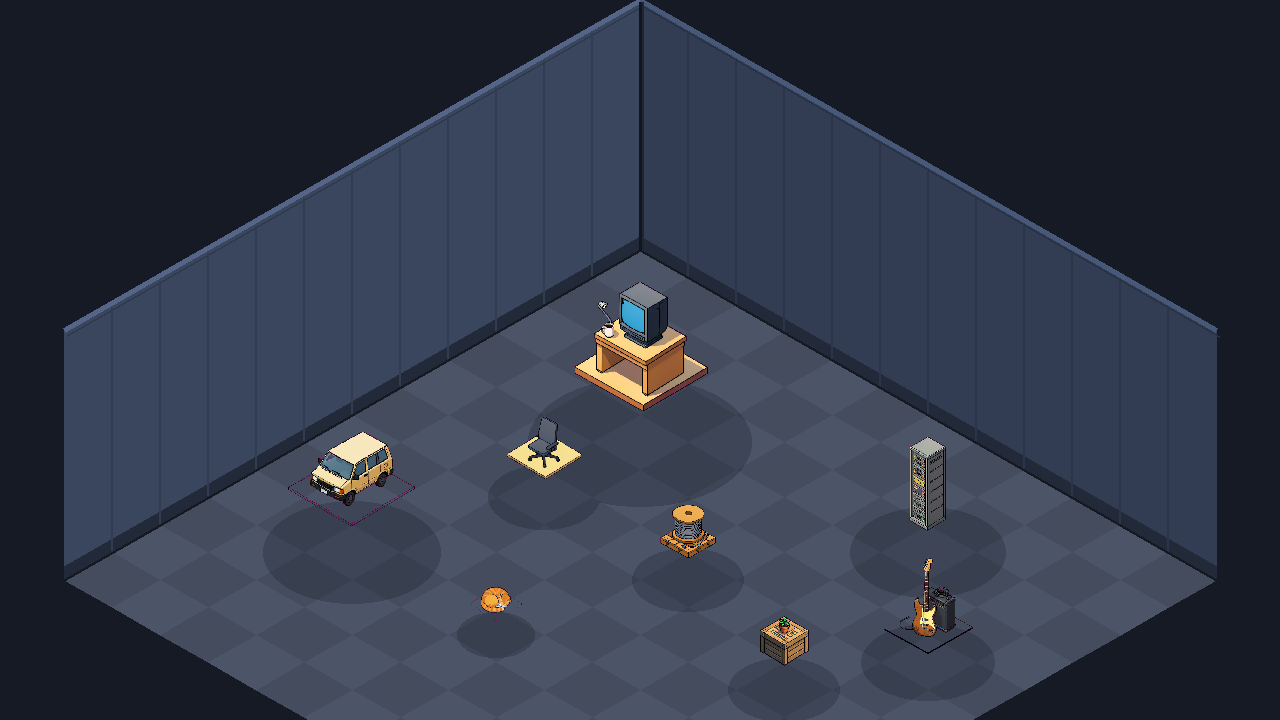
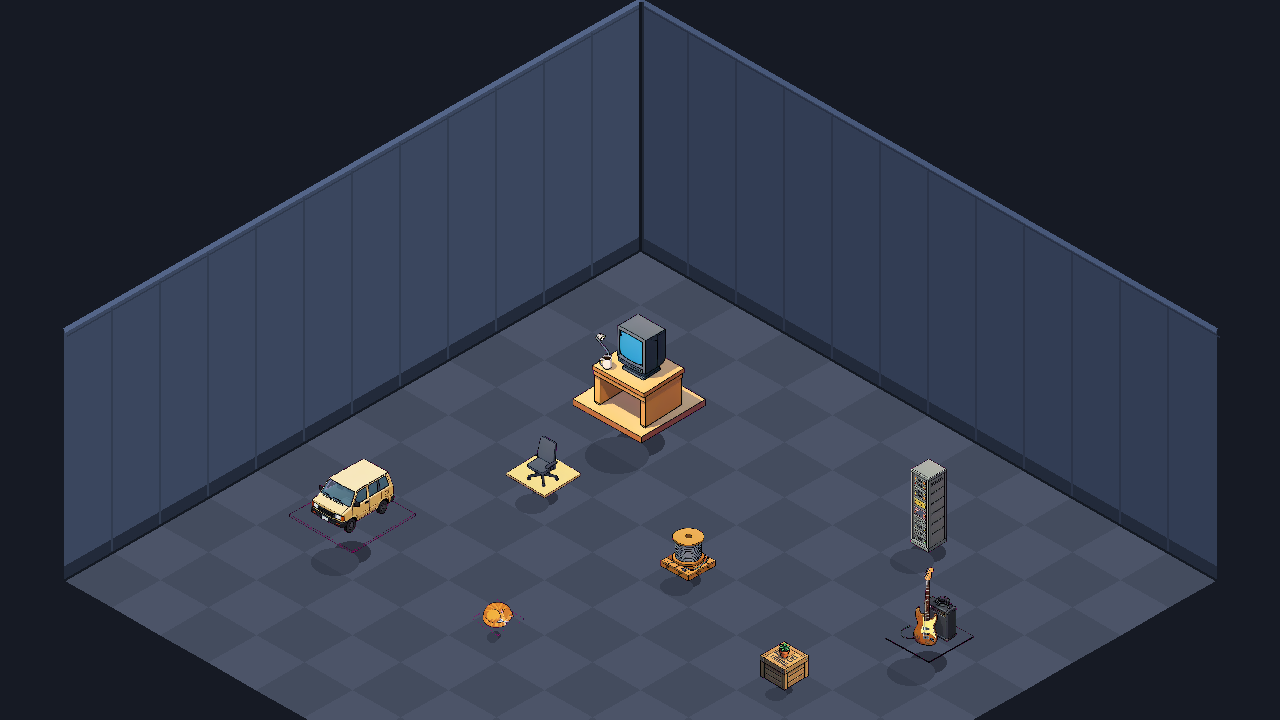
feat(room): declared light direction + footprint-anchored props
Closes the biggest named gap from review of the first room - "identical soft blob shadows with no
contact hardening, no consistent light direction, no cast shadows... props look pasted onto the
floor" - as geometry rather than tuning:

- ROOM['light'] declares the vector (front-upper-left), a tight contact shadow and a longer cast
  shadow. One declaration now drives every prop's shadow, so they cannot disagree.
- each shadow is sized from the prop's MEASURED footprint (bottom 10% of its alpha), not from its
  sprite width: a sprite is mostly padding, which is exactly why the first attempt's fixed
  fraction produced "detached blobs". Measured footprints: desk 49px, van 37, bass 37, rack 34,
  chair 26, spool 25, crate 17, cat 8.
- props are now anchored by FOOTPRINT, not canvas: the footprint centre lands on the grid cell
  and the base row sits at the anchor's y. Pasting at (ax - sprite_w/2, ay - sprite_h) put the
  object wherever its padding happened to fall.

Review verdict after: shadows anchor the props, all cast shadows share one direction, sizes scale
with the object, no floating or sinking. Single most noticeable remaining flaw is now the
minivan's magenta-edged base pad (filed on SOU-114 - the pad is inside the silhouette, so a
boundary pass cannot reach it and a detector is needed).

diff --git a/scripts/finish_room_props.py b/scripts/finish_room_props.py
@@ -23,15 +23,24 @@ something this pass can fix silently.
 
 Usage: python scripts/finish_room_props.py [agent_id]
 """
+import importlib.util
 import json
 import sys
 from collections import deque
 from pathlib import Path
 
+import numpy as np
 from PIL import Image, ImageDraw
 
 REPO = Path(__file__).resolve().parent.parent
 GEN = REPO / "assets" / "generated" / "rooms"
+
+# the declared room is the single source of geometry - load it at module level so the shadow
+# functions can read ROOM["light"] without re-importing per call
+_spec = importlib.util.spec_from_file_location("geo", REPO / "scripts" / "room_geometry.py")
+geo = importlib.util.module_from_spec(_spec)
+_spec.loader.exec_module(geo)
+ROOM = geo.ROOM
 
 
 def strip_bottom_plate(img, tol=26, min_share=0.55):
@@ -76,14 +85,50 @@ def strip_bottom_plate(img, tol=26, min_share=0.55):
     return img, removed > 0
 
 
-def shadow_layer(size, anchors, tile_w, tile_h, alpha=64):
-    """One ellipse per prop, with the lattice's aspect, under all props."""
+def footprint(img, band=0.10):
+    """Measure a prop's base footprint from its own alpha: (centre_x, width) of the bottom band.
+
+    Shadows sized from the SPRITE go wrong, because a sprite's canvas is mostly padding - the
+    first attempt used a fixed fraction of the sprite width and review called the result
+    "detached blobs". The footprint is what the object actually stands on, so measure it.
+    """
+    a = np.asarray(img.convert("RGBA"))[:, :, 3] > 128
+    ys, xs = np.nonzero(a)
+    if len(ys) == 0:
+        return None
+    y1 = ys.max()
+    y0 = int(y1 - max(2, (y1 - ys.min()) * band))
+    slab = a[y0:y1 + 1, :]
+    cols = np.nonzero(slab.any(axis=0))[0]
+    if len(cols) == 0:
+        return None
+    return ((cols.min() + cols.max()) / 2.0, float(cols.max() - cols.min() + 1), int(y1))
+
+
+def shadow_layer(size, items, tile_w, tile_h):
+    """Two-part shadow per prop, from the DECLARED light vector: a tight contact shadow that
+    hugs the measured footprint, plus a longer, softer cast shadow offset along the light.
+
+    Review of the first room named the absence of exactly this as the reason props read as
+    pasted on: "identical soft blob shadows with no contact hardening, no consistent light
+    direction, no cast shadows".
+    """
+    L = ROOM["light"]
+    v = L["vector"]
     layer = Image.new("RGBA", size, (0, 0, 0, 0))
     d = ImageDraw.Draw(layer)
-    for ax, ay, prop_w in anchors:
-        rx = prop_w * 0.58
-        ry = rx * (tile_h / tile_w)
-        d.ellipse([ax - rx, ay - ry, ax + rx, ay + ry], fill=(20, 24, 34, alpha))
+    for ax, ay, fp_w in items:
+        # contact: slightly larger than the footprint, dark, centred on it
+        rx = fp_w / 2.0 * L["contact"]["scale"]
+        ry = max(4.0, rx * (tile_h / tile_w))
+        d.ellipse([ax - rx, ay - ry, ax + rx, ay + ry],
+                  fill=(14, 17, 24, L["contact"]["alpha"]))
+        # cast: same footprint pushed along the light vector and stretched
+        ox, oy = v["dx"] * fp_w * L["cast"]["length"], v["dy"] * fp_w * L["cast"]["length"] * 0.5
+        crx = rx * L["cast"]["scale"]
+        cry = ry * L["cast"]["scale"]
+        d.ellipse([ax + ox - crx, ay + oy - cry, ax + ox + crx, ay + oy + cry],
+                  fill=(12, 15, 22, L["cast"]["alpha"]))
     return layer
 
 
@@ -110,9 +155,12 @@ def main():
             im.save(p)
             print(f"   {prop['id']:8s} base pad removed")
 
-    # 2. recomposite with contact shadows
+    # 2. recomposite with shadows. Props are anchored by their measured FOOTPRINT, not by their
+    # canvas: a sprite is mostly padding, so pasting at (ax - sprite_width/2, ay - sprite_height)
+    # puts the object wherever its padding happens to fall. The footprint is what stands on the
+    # grid cell, and the base row is what sits at the anchor's y.
     img, _ = geo.draw_room(show_grid=False)
-    anchors = []
+    items = []
     for prop in room["prop_anchors"]:
         p = out_dir / Path(prop["file"]).name
         sp = Image.open(p).convert("RGBA")
@@ -120,17 +168,25 @@ def main():
         s = min(want_w / sp.width, 1.0)
         if s != 1.0:
             sp = sp.resize((max(1, int(sp.width * s)), max(1, int(sp.height * s))), Image.NEAREST)
+        fp = footprint(sp)
+        fp_cx, fp_w, base_y = fp if fp else (sp.width / 2.0, sp.width * 0.6, sp.height)
         ax, ay = geo.grid_to_screen(prop["grid"][0] + 0.5, prop["grid"][1] + 0.5)
-        anchors.append((ax, ay, sp.width, sp))
+        items.append({"id": prop["id"], "sp": sp, "ax": ax, "ay": ay,
+                      "fp_cx": fp_cx, "fp_w": fp_w, "base_y": base_y})
 
     img = Image.alpha_composite(img.convert("RGBA"),
-                                shadow_layer(img.size, [(a[0], a[1], a[2]) for a in anchors], tw, th))
-    for ax, ay, _w, sp in anchors:
-        img.paste(sp, (int(ax - sp.width / 2), int(ay - sp.height)), sp)
+                                shadow_layer(img.size,
+                                             [(it["ax"], it["ay"], it["fp_w"]) for it in items],
+                                             tw, th))
+    for it in items:
+        img.paste(it["sp"], (int(it["ax"] - it["fp_cx"]), int(it["ay"] - it["base_y"])), it["sp"])
+        print(f"   {it['id']:9s} footprint {it['fp_w']:5.1f}px  base row {it['base_y']:4d}  "
+              f"anchor ({it['ax']:.0f},{it['ay']:.0f})")
 
     img.convert("RGB").save(GEN / agent / "room_preview.png")
     img.convert("RGB").save(REPO / "assets" / "experiments" / "geometry" / f"{agent}_room_shadowed.png")
-    print(f"== recomposited {agent}: {len(anchors)} props with contact shadows ==")
+    print(f"== recomposited {agent}: {len(items)} props, footprint-anchored, "
+          f"light from {ROOM['light']['from']} ==")
     print("FINISH_PROPS_DONE")
 
 

diff --git a/scripts/room_geometry.py b/scripts/room_geometry.py
@@ -67,6 +67,16 @@ ROOM = {
         "baseboard_px": 14,
         "void": (22, 26, 36),                  # outside the room, incl. above the walls
     },
+    # LIGHT IS GEOMETRY, so it is declared here with everything else. Review of the first room:
+    # "identical soft blob shadows with no contact hardening, no consistent light direction, no
+    # cast shadows... props look pasted onto the floor". One declared vector removes all three
+    # problems at once, and every prop's shadow is then derived rather than guessed.
+    "light": {
+        "from": "front-upper-left",
+        "vector": {"dx": -0.55, "dy": 0.62},   # screen-space direction shadows are cast TOWARD
+        "contact": {"scale": 1.02, "alpha": 120},   # tight, dark, hugs the footprint
+        "cast": {"scale": 1.25, "length": 0.85, "alpha": 58},  # longer, softer, offset
+    },
 }
 
 
